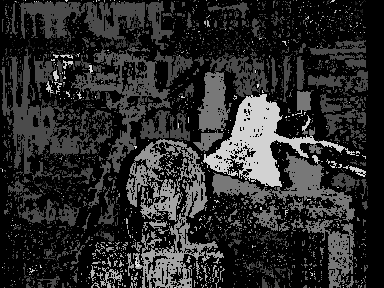
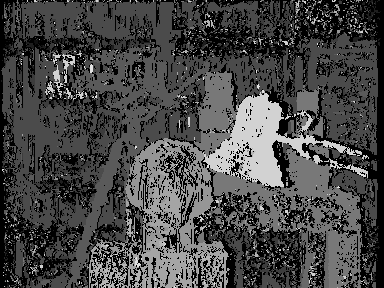
Fix left right consistency check

diff --git a/post_processing/LR_check.py b/post_processing/LR_check.py
@@ -3,11 +3,16 @@ import cv2
 from tqdm import tqdm
 def LR_check(left_disparity, right_disparity, depth):
     height, width = left_disparity.shape
-    aggregated_disparity = np.full((height, width), np.inf)
-    for w in range(width-depth):
+    disparity_mask = np.zeros((height, width))
+    for w in range(width):
         for h in range(height):
-            if left_disparity[h,w] == right_disparity[h,w+depth]:
-                aggregated_disparity[h,w] = left_disparity[h,w]
+            left_dis = left_disparity[h,w]
+            if w+left_dis < width:
+                right_dis = right_disparity[h,w+left_dis]
+                if right_dis == left_dis:
+                    disparity_mask[h,w] = 1
+
+    aggregated_disparity = left_disparity * disparity_mask
 
     print_img = aggregated_disparity.astype(np.uint8) * int(255 / depth)
     cv2.imshow('aggregated_disparity',print_img)
